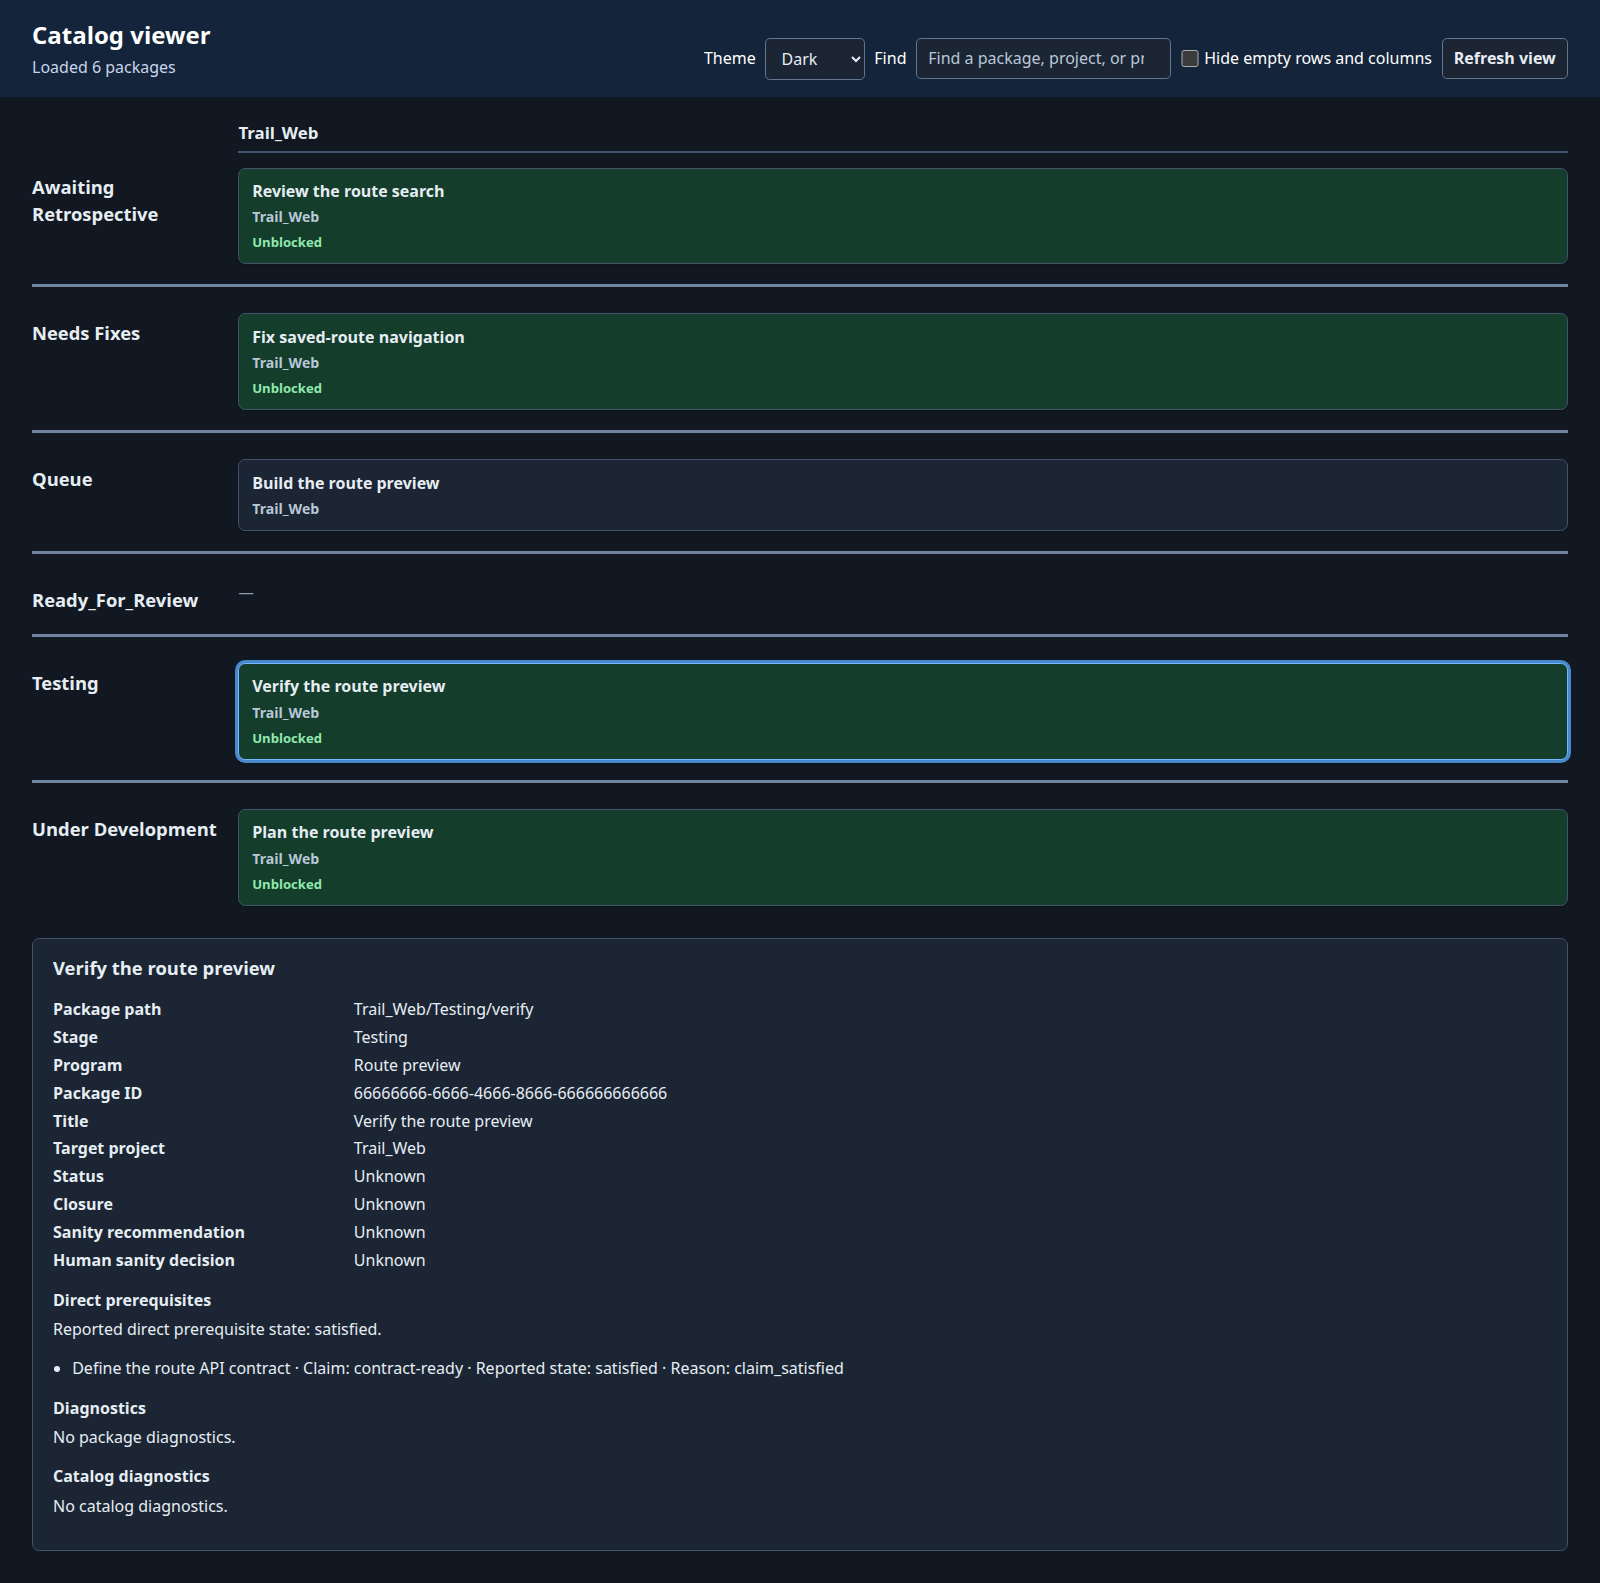
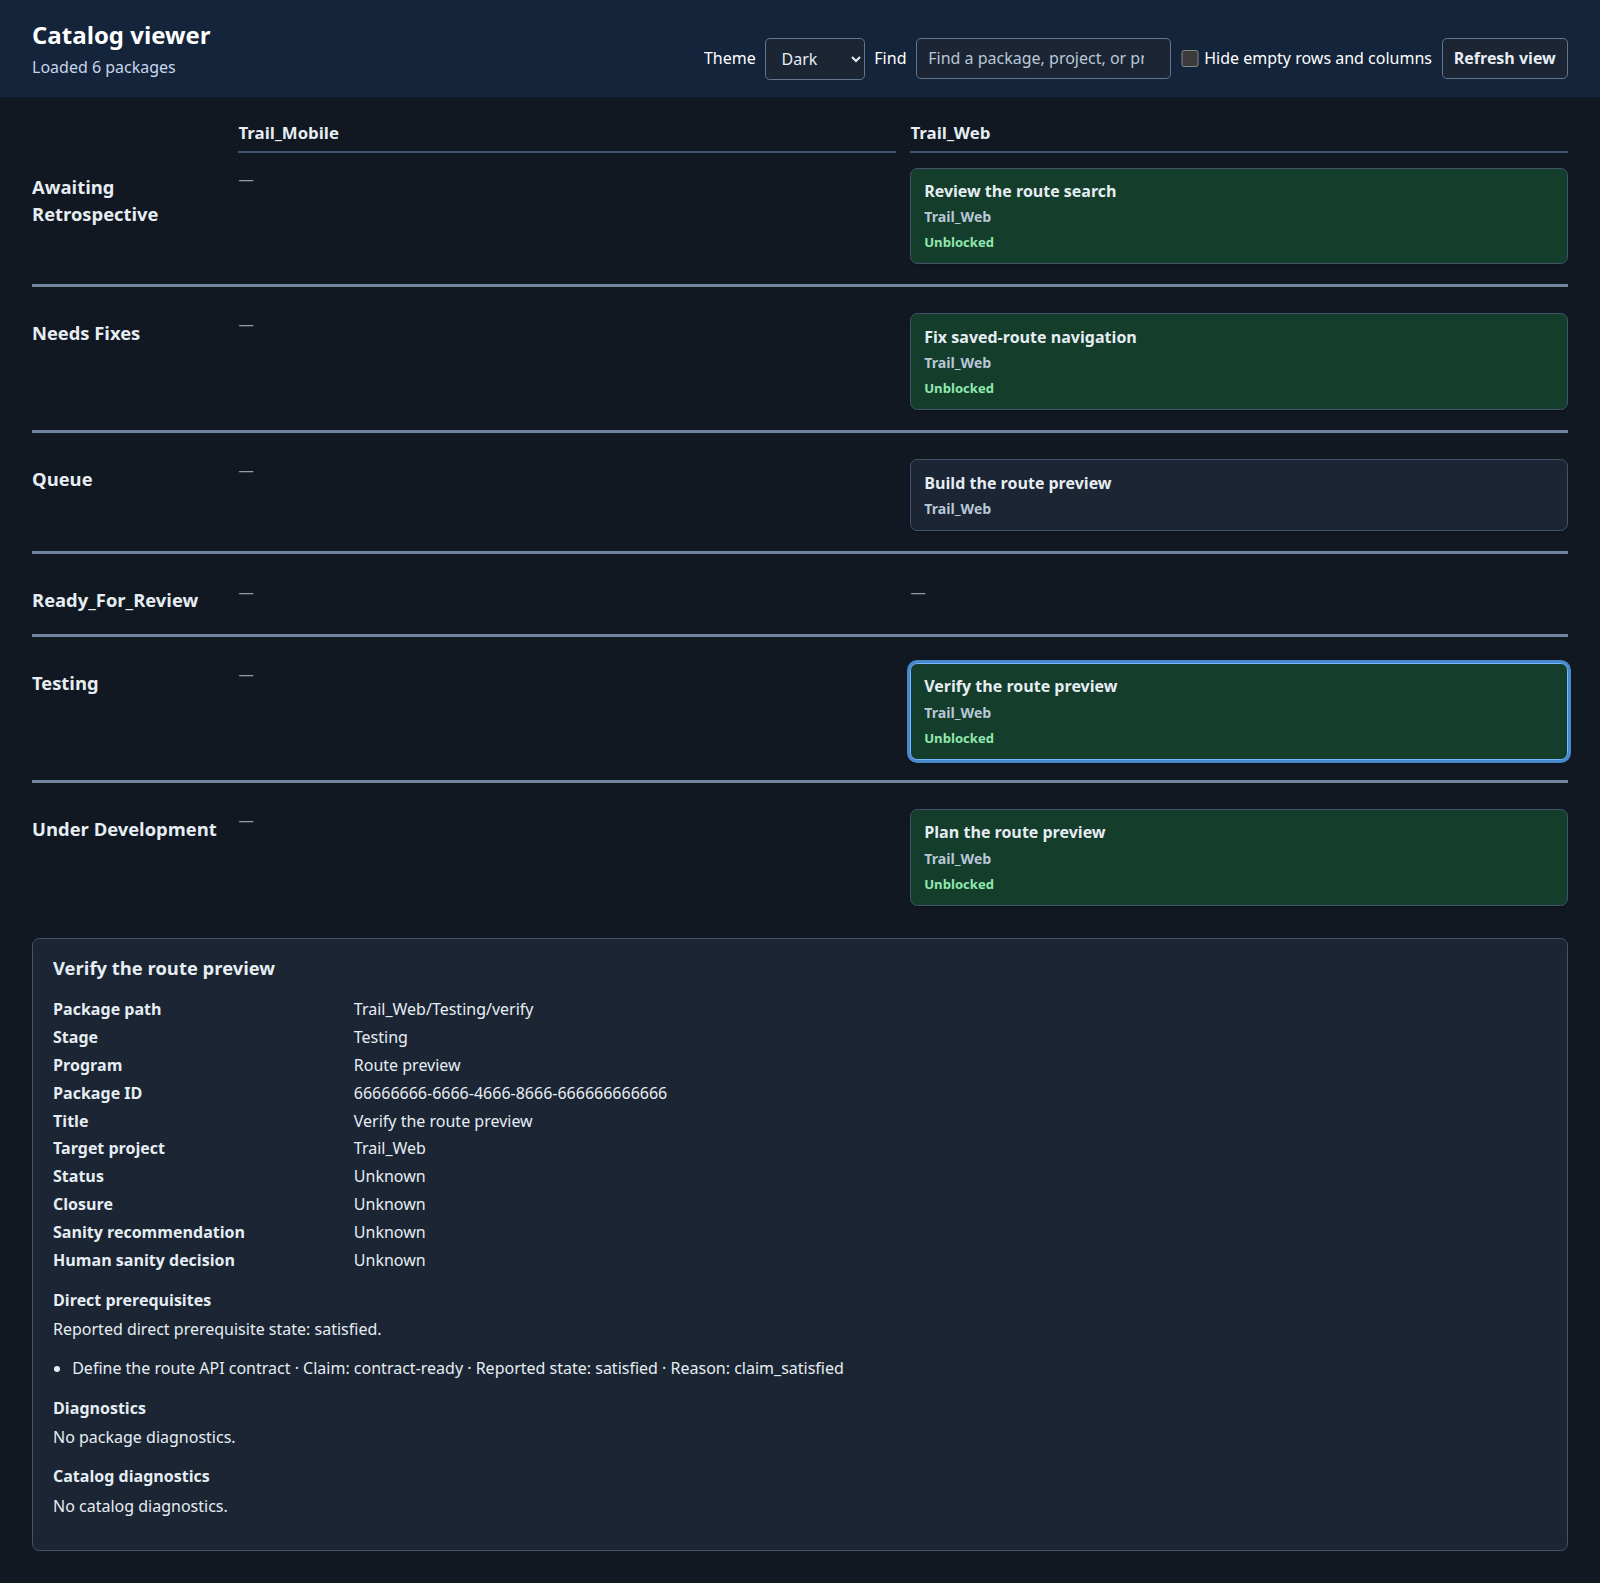
Show empty sample project in expanded board

Changed region(s): [[0.125, 0.0619, 0.7188, 0.3405], [0.125, 0.4024, 0.625, 0.5881], [0.5625, 0.2786, 0.6875, 0.3405]]

diff --git a/examples/sample-specifications/README.md b/examples/sample-specifications/README.md
@@ -41,8 +41,9 @@ three projects and six package records. The package records are:
 The empty `Ready_For_Review` stage and `Trail_Mobile` project are inventory
 facts; direct `.gitkeep` files do not appear as cards. When **Hide empty rows and
 columns** is checked, confirmed-empty dimensions are compacted out of the board.
-Uncheck it to restore the empty `Ready_For_Review` row. The browser preference
-is local to that browser and does not alter this sample or Nyx setup.
+Uncheck it to restore the empty `Ready_For_Review` row and `Trail_Mobile`
+column. The browser preference is local to that browser and does not alter this
+sample or Nyx setup.
 
 ## Follow a dependency
 
@@ -109,10 +110,10 @@ board rather than partially applying the result.
 
 With `Done` hidden and the sample package restored to `Testing`, leave **Hide
 empty rows and columns** checked for the compact view. Then uncheck it to show
-the admitted empty `Ready_For_Review` row alongside the populated rows. Search
-filters cards but leaves the axes unchanged. Select **Verify the route preview**
-in either state to inspect its satisfied API prerequisite; the hidden card is
-not added to the board or search results.
+the admitted empty `Ready_For_Review` row and `Trail_Mobile` column alongside
+the populated dimensions. Search filters cards but leaves the axes unchanged.
+Select **Verify the route preview** in either state to inspect its satisfied API
+prerequisite; the hidden card is not added to the board or search results.
 
 When you finish exploring, run `nyx --stop`.
 
